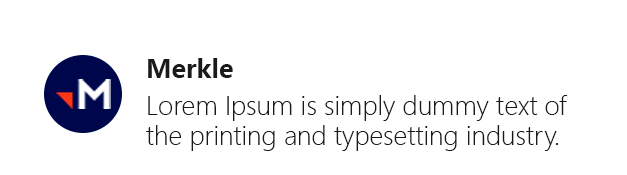
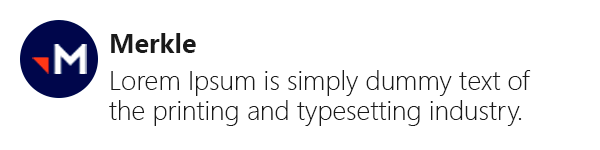
130426_v6

Changed region(s): [[0.03, 0.1333, 0.9, 0.88]]

diff --git a/showcase/mp4.html b/showcase/mp4.html
@@ -125,7 +125,7 @@ table .cta td a {text-decoration: none !important;}
               <table cellpadding="0" cellspacing="0" border="0" width="600" class="resptab" role="presentation" style="width:600px;" bgcolor="#ffffff"> 
                 <tr align="center">
                   <td align="center">
-        <img src="https://ddaniele85.github.io/merkleemailinnovation/showcase/preheader.png" alt="" style="display: block; border: 0; font-size: 16px; line-height: 16px;" border="0" class="respimg" width="" height="">
+        <img src="https://ddaniele85.github.io/merkleemailinnovation/showcase/preheader.png" alt="" style="display: block; border: 0; font-size: 16px; line-height: 16px;" border="0" class="respimg" width="310" height="">
                   </td>
                 </tr>
               </table>
